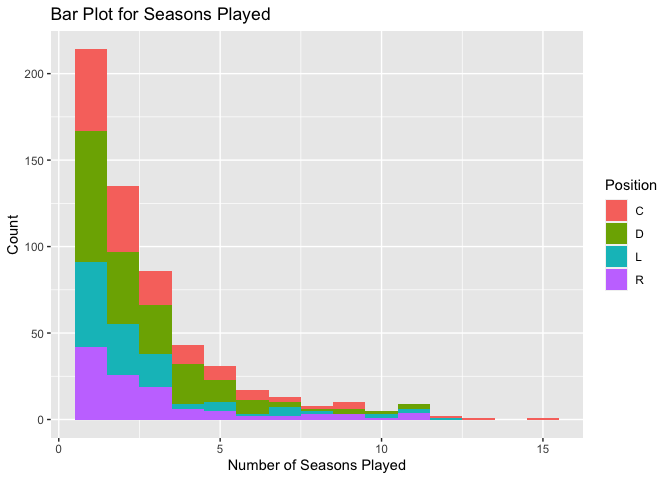
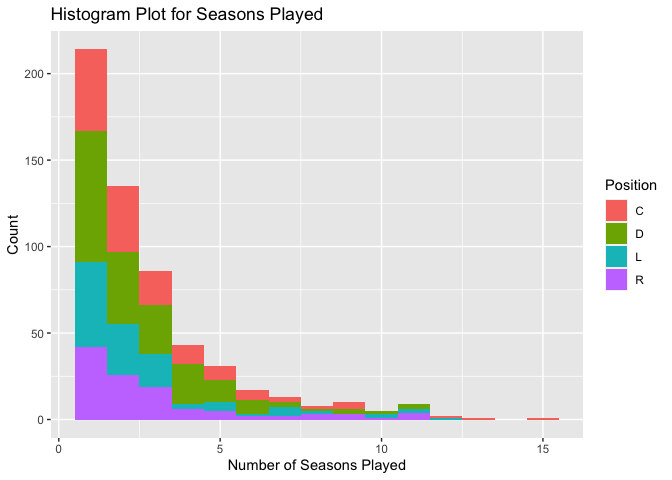
Minor adjustments to graphs and added commentary about visualizations

Changed region(s): [[0.0625, 0.0, 0.4688, 0.0625]]

diff --git a/README.md b/README.md
@@ -34,6 +34,19 @@ Michael Evans
             Against (One Game), and Most Saves (One
             Game)](#summary-of-goalies-games-played-losses-wins-most-goals-against-one-game-and-most-saves-one-game)
       - [Plots](#plots)
+          - [Scatter Plot of Losses
+            vs. Wins](#scatter-plot-of-losses-vs.-wins)
+          - [Box Plot for Goals Scored by Flyers
+            Skaters](#box-plot-for-goals-scored-by-flyers-skaters)
+          - [Density Histogram for Shutouts by Flyers
+            Goalies](#density-histogram-for-shutouts-by-flyers-goalies)
+          - [Histogram for Seasons Played by Flyers
+            Skaters](#histogram-for-seasons-played-by-flyers-skaters)
+          - [Histogram for Most Goals in One Game by Flyers
+            Skaters](#histogram-for-most-goals-in-one-game-by-flyers-skaters)
+          - [Density Plot for Most Goals in One Game by Flyers
+            Skaters](#density-plot-for-most-goals-in-one-game-by-flyers-skaters)
+  - [Conclusion](#conclusion)
 
 # JSON Data
 
@@ -42,54 +55,54 @@ packages in R that can be used to read it.
 
 ## What is it?
 
-JSON stands for Javascript Object Notation and is a way of storing data
-in an organized fashion that is easy to access. Generally regarded as a
-“lightweight data-interchange format”, JSON data is great for both
-humans and machines, as it is both readable by humans and able to be
-parsed by machines. It was made popular by Douglas Crawford. This data
-type is built on collections of name/value pairs and an ordered list of
-values.
+JSON stands for **Javascript Object Notation** and is a way of storing
+data in an organized fashion that is easy to access. Generally regarded
+as a **“lightweight data-interchange format”**, JSON data is great for
+both humans and machines, as it is both readable by humans and able to
+be parsed by machines. It was made popular by Douglas Crawford. This
+data type is built on collections of **name/value pairs** and an
+**ordered list of values**.
 
 ## Where does it get used?
 
 Since the two data types JSON data is built on are generally universal
-data structures, JSON data is considered language-independent. Because
-of this, many of the programming languages used today have ways of
-reading JSON data. JSON data is essentially just a text file, which
+data structures, JSON data is considered **language-independent**.
+Because of this, many of the programming languages used today have ways
+of reading JSON data. JSON data is essentially just a text file, which
 makes it easy to send over servers. This feature has allowed it to be
-used frequently for transmitting information over the web.
+used frequently for **transmitting information over the web**.
 
 ## Why is it a good way to store data?
 
 Some of the previous features mentioned are the same reasons as to why
 JSON data is a good way of storing data. For starters, the “lightweight”
-feature of the data makes it extremely accessible. JSON data can be
+feature of the data makes it **extremely accessible**. JSON data can be
 loaded quickly because of how “lightweight” it is, which has made it a
-great way to store data on the internet. It can be called and loaded
-quickly.
+great way to store data on the internet. It can be **called and loaded
+quickly**.
 
 Another reason that it is a good way of storing data is because it is
-easily compatible with so many modern programming languages. This means
-that many people working across different programs can still have easy
-access to the same datasets.
+**easily compatible with so many modern programming languages**. This
+means that many people working across different programs can still have
+easy access to the same datasets.
 
 That being said, there are also some limitations of JSON data. There is
 no way to add comments to JSON data. While JSON data is often readable,
-it can be difficult to understand the context of certain things without
-comments. This means that you often need to consult additional
+it can be **difficult to understand the context of certain things
+without comments**. This means that you often need to consult additional
 documentation to understand the data. Additionally, the language has no
-schema, which means that you could accidentally create data that you are
-not intending to create. On the other hand, the lack of schema is
+schema, which means that you could **accidentally create data that you
+are not intending to create**. On the other hand, the lack of schema is
 something that a lot of people like about JSON data, as it offers more
 flexibility.
 
 ## Packages Available
 
-There are three major packages available in R for reading JSON data.
+There are **three major packages** available in R for reading JSON data.
 These include `jsonlite`, `RJSONIO`, and `rjson`. `jsonlite` is the
 newest package of the three and was developed based off of the `RJSONIO`
 package. While all of these packages are able to read JSON data,
-`jsonlite` offers the ability to return a data frame. Typically,
+`jsonlite` offers the **ability to return a data frame**. Typically,
 `RJSONIO` and `rjson` return a list.
 
 `RJSONIO` was built as an alternative to the `rjson` package to offer a
@@ -108,7 +121,7 @@ package to get JSON data.
 
 To read JSON data, we will first use the `GET()` function from `httr` to
 get the whatever information is present from the URL provided. Then, we
-will use the `content()` function from `httr` to retreive the content of
+will use the `content()` function from `httr` to retrieve the content of
 the URL as a text file (use the option `as = "text` to do this).
 Finally, we will use the `fromJSON()` function from `jsonlite` to
 convert the JSON data to an R object. We will use the `flatten = T`
@@ -304,7 +317,7 @@ skater_records_data <- skater_records("16")
 # Exploratory Data Analysis
 
 In this section of the report, we will explore some the data sets we
-aquired. We will look at contingency tables to see counts of different
+acquired. We will look at contingency tables to see counts of different
 variables, numerical summaries to see the distributions of our data, and
 graphics to further explore trends.
 
@@ -335,7 +348,7 @@ team_totals <- aggregate(list(team_totals_data$wins, team_totals_data$losses), b
 ```
 
 Once this is done, we will rename the columns of this data frame so that
-they match the inital column names.
+they match the initial column names.
 
 ``` r
 #Rename the columns
@@ -389,7 +402,7 @@ More Wins/Losses vs. Franchise Status
 
 **Analysis:**
 
-An inital inspection of this contingency table shows that inactive
+An initial inspection of this contingency table shows that inactive
 franchises have a higher amount of franchises with more losses than wins
 (11 of 13) than active franchises (17 of 34). This could suggest that
 inactive franchises become inactive because they struggle. These
@@ -425,7 +438,7 @@ Seasons Played vs. Position
 
 **Analysis:**
 
-An inital inspection of this contingency table suggests that each
+An initial inspection of this contingency table suggests that each
 position follows a similar distribution for the number of seasons
 played. Most players play somewhere between 1 to 6 seasons, while much
 fewer play more than 6. Only a handful at each position have played more
@@ -462,10 +475,10 @@ Most Goals in a Game vs. Player Status
 
 **Analysis:**
 
-An inital inspection of this contingency table suggests that the most
+An initial inspection of this contingency table suggests that the most
 goals scored in one game is distributed similarly for both active and
 inactive players. The trend follows a similar pattern for both, which is
-an inital amount of players with 0, which we will reference as x. Then,
+an initial amount of players with 0, which we will reference as x. Then,
 \~2x players have 1, \~x players have 2, and \~.5x players have 3. One
 significant difference in this data is that no active players have 4
 goals. However, when you consider this number for inactive players is
@@ -478,7 +491,7 @@ would be \~1.
 
 To create this summary, we will start with the `goalie_records_data` and
 use the `select()` function to get the columns we want a summary of. We
-will save this as `goalie_records_summary` to preserve the inital data.
+will save this as `goalie_records_summary` to preserve the initial data.
 
 ``` r
 goalie_records_summary <- goalie_records_data %>% select(gamesPlayed, losses, wins, mostGoalsAgainstOneGame,
@@ -486,7 +499,7 @@ goalie_records_summary <- goalie_records_data %>% select(gamesPlayed, losses, wi
 ```
 
 Next, we will use `sapply()` to find the statistics we want for each
-column. The `sapply()` function applys a function over all rows of a
+column. The `sapply()` function applies a function over all rows of a
 data frame. We will need to do this for each statistic wanted. Save each
 output as its own object, using table.4 through table.9.
 
@@ -544,16 +557,29 @@ Summary for Goalie Statistics
 
 **Analysis:**
 
-Write analysis here.
+The summary table above doesn’t show us anything that we didn’t expect
+to see. Rather, it gives us an idea of the distribution of each hockey
+statistic. For someone unfamiliar with hockey, this could help put into
+perspective how players fare. For example, knowing that the average
+Flyers goalie has a mean games played of NA suggests that the average
+Flyers goalie does not have a very long career, as the average NHL
+season has 82 games.
 
 ## Plots
+
+For all of the visuals created below, the 1`ggplot2` package will be
+utilized. The code used to produce each graph is shown prior to the
+analysis below each graph.
+
+### Scatter Plot of Losses vs. Wins
 
 ``` r
 #First Visual
 visuals.1 <- ggplot(data = team_totals, aes(x = wins, y = losses))
 visuals.1 + geom_point(aes(color = activeFranchise, shape = win_greater_loss)) +
   geom_smooth() + 
-  labs(color = "Franchise Status", shape = "More Wins or Losses?") + 
+  labs(color = "Franchise Status", shape = "More Wins or Losses?", title = "Total Franchise Losses vs. Wins",
+       x = "Wins", y = "Losses") + 
   scale_color_manual(values = c("red", "blue"), labels = c("Inactive", "Active"))
 ```
 
@@ -561,18 +587,44 @@ visuals.1 + geom_point(aes(color = activeFranchise, shape = win_greater_loss)) +
 
 ![](README_files/figure-gfm/visuals.1-1.png)<!-- -->
 
+**Analysis:**
+
+This plot suggests that the teams in the league with the most wins not
+only have the most wins, but also have more wins than losses. This
+suggests that the teams that win the most do so consistently. At the
+bottom of the graph, there are a lot of teams marked inactive. This
+suggests that the inactive teams were not around for long before they
+became inactive. The regression line in the plot also confirms the
+original observation. Its flattening out at the top shows that those
+teams have more wins than losses.
+
+### Box Plot for Goals Scored by Flyers Skaters
+
 ``` r
 #Second Visual
 visuals.2 <- ggplot(data = skater_records_data, aes(x = activePlayer, y = goals))
 visuals.2 + geom_boxplot(aes(color = activePlayer)) +
   geom_jitter(aes(color = activePlayer), alpha = .2) +
   ylim(0, 75) +
-  labs(title = "Boxplot for Goals Scored", color = "Player Status", x = "Player Status", y = "Goals") +
+  labs(title = "Box Plot for Goals Scored", color = "Player Status", x = "Player Status", y = "Goals") +
   scale_x_discrete(labels = c("Inactive", "Active")) +
   scale_color_discrete(labels = c("Inactive", "Active"))
 ```
 
 ![](README_files/figure-gfm/visuals.2-1.png)<!-- -->
+
+**Analysis:**
+
+This box plot shows that on average, active players are scoring more
+goals than inactive players. The plot also shows that there are
+significantly more inactive players than there are active players.
+Because of that, it’s likely that over time, active players and their
+goals scored will regress to be closer to the inactive amount. It could
+be that at the moment the Flyers have a lot of players on their roster
+with a lot of career goals, which is driving up the average since the
+population size is smaller.
+
+### Density Histogram for Shutouts by Flyers Goalies
 
 ``` r
 #Add variable to indictate if wins > 50
@@ -584,28 +636,61 @@ goalie_records_data$win_50 <- as.factor(goalie_records_data$win_50)
 visuals.3 <- ggplot(data = goalie_records_data, aes(x = shutouts))
 visuals.3 + geom_histogram(aes(fill = win_50, y = ..density..), bins = 20) +
   geom_density() +
-  labs(title = "Bar Plot for Shutouts", x = "Shutouts", y = "Density", fill = "Number of Wins")
+  labs(title = "Density Bar Plot for Shutouts", x = "Shutouts", y = "Density", fill = "Number of Wins")
 ```
 
 ![](README_files/figure-gfm/visuals.3-1.png)<!-- -->
 
+**Analysis:**
+
+In this density plot, we can see the distribution of shutouts, which is
+highly concentrated at lower amounts of shutouts. This makes sense, as a
+shutout is a skilled accomplishment in hockey. Another interesting
+observation is that almost all of the goals with more than 5 shutouts
+have more than 50 career wins. This shows that goalies that are highly
+skilled, and thus, win more games, generally also have more shutouts.
+This could also occur because goalies that win more games stay around
+for longer duration, which provides more opportunities to get shutouts.
+
+### Histogram for Seasons Played by Flyers Skaters
+
 ``` r
 visuals.4 <- ggplot(data = skater_records_data, aes(x = seasons))
 visuals.4 + geom_histogram(aes(fill = positionCode), bins = 15) +
-  labs(title = "Bar Plot for Seasons Played", x = "Number of Seasons Played", y = "Count", fill = "Position")
+  labs(title = "Histogram Plot for Seasons Played", x = "Number of Seasons Played", y = "Count", fill = "Position")
 ```
 
 ![](README_files/figure-gfm/visuals.4-1.png)<!-- -->
 
+**Analysis:**
+
+In this histogram, we look at the number of seasons played broken down
+by position. This is the visual representation of the contingency table
+we looked at earlier in the analysis. This graph confirms the
+observation from that table, being that it appears the number of seasons
+played follow a similar distribution at all positions.
+
+### Histogram for Most Goals in One Game by Flyers Skaters
+
 ``` r
 visuals.5 <- ggplot(data = skater_records_data, aes(x = mostGoalsOneGame))
 visuals.5 + geom_histogram(aes(fill = activePlayer), bins = 5, position = "dodge") +
-  labs(title = "Bar Plot for Most Goals in One Game", x = "Most Goals in One Game", y = "Count", 
+  labs(title = "Histogram for Most Goals in One Game", x = "Most Goals in One Game", y = "Count", 
        fill = "Player Status") +
   scale_fill_discrete(labels = c("Inactive", "Active"))
 ```
 
 ![](README_files/figure-gfm/visuals.5-1.png)<!-- -->
+
+**Analysis:**
+
+In this histogram, we look at the most goals in one game by Flyers
+skaters and the count of each occurrence. While it is clear that the
+inactive players have higher counts, it seems like the both inactive and
+active players follow similar densities. In the next graph, we will see
+if this is indeed the game.
+
+### Density Plot for Most Goals in One Game by Flyers Skaters
 
 ``` r
 visuals.6 <- ggplot(data = skater_records_data, aes(x = mostGoalsOneGame))
@@ -617,3 +702,21 @@ visuals.6 + geom_density(aes(fill = activePlayer), color = NA, size = 3, adjust 
 ```
 
 ![](README_files/figure-gfm/visuals.6-1.png)<!-- -->
+
+**Analysis:**
+
+This is the density plot of the histogram shown in the plot above. This
+confirms the initial observation, which is that both inactive and active
+players follow a similar distribution for most goals in one game. While
+inactive players are a little higher for one goal and two goals, the
+density curves are relatively similar.
+
+# Conclusion
+
+In this analysis, we’ve explored JSON data through the NHL API. We’ve
+written functions to access this data and get data for a specific team.
+We’ve then explored that data through contingency tables, numerical
+summaries, and visualizations. While no significant conclusions have
+been drawn about the data, this process has explored a number of basic
+exploratory data analysis functions that could be applied to higher
+level analysis in the future.
